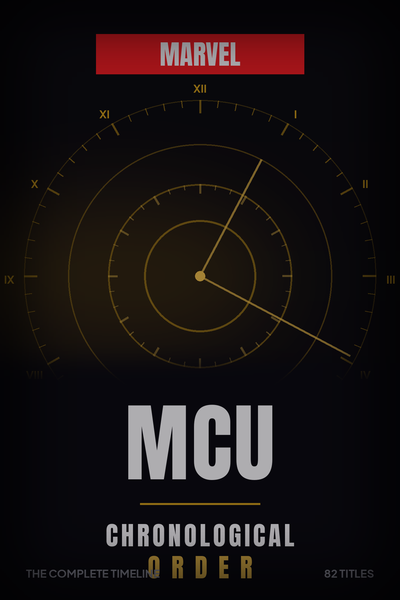
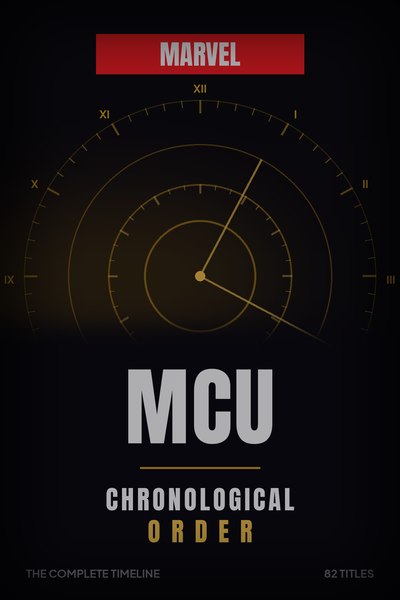
fix(watchorder): key posterFile image on file bytes; raise MCU-chrono title
Keying the stored poster on the filename meant editing the poster in
place never refreshed the served image. Hash the file contents instead.
Also nudge the custom poster's title block higher for more breathing room.

diff --git a/src/watchorder/build.ts b/src/watchorder/build.ts
@@ -98,10 +98,11 @@ export async function build(opts: { dir: string; publicUrl: string; today?: stri
   for (const f of franchises) {
     const started = Date.now();
     const videos = await expand(f, get, today);
-    const poster = f.posterFile
-      ? await image(['posterfile', f.posterFile], 'png', async () => ({
-          buf: readFileSync(new URL(`../../assets/${f.posterFile}`, import.meta.url)), final: true,
-        }))
+    const posterBuf = f.posterFile ? readFileSync(new URL(`../../assets/${f.posterFile}`, import.meta.url)) : undefined;
+    const poster = posterBuf
+      // Key on the file's bytes, not its name: editing the poster in place must
+      // produce a new image name so clients and the store pick it up.
+      ? await image(['posterfile', createHash('sha1').update(posterBuf).digest('hex')], 'png', async () => ({ buf: posterBuf, final: true }))
       : await image(['poster', f.poster, patterns(f)], 'jpg', async () => {
           const src = await fetchImage(f.poster);
           if (!('buf' in src)) throw new Error(`${f.id}: poster unavailable`);
